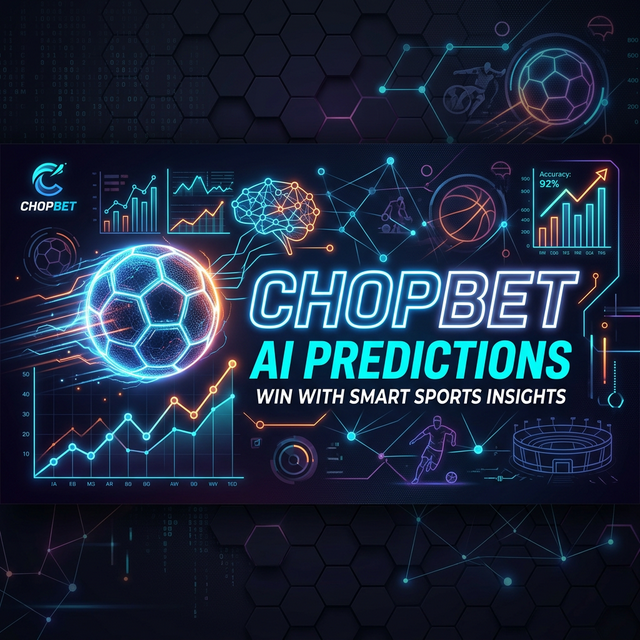
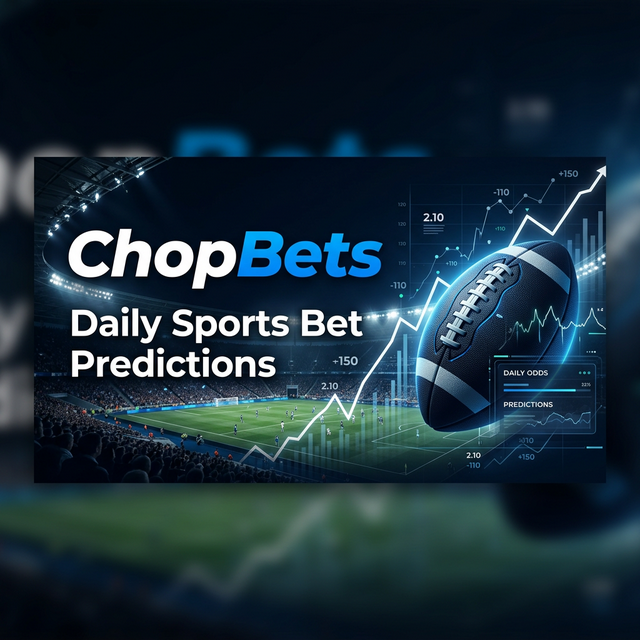
chore: update og-image to remove AI mentions and use ChopBets

diff --git a/frontend/app/layout.tsx b/frontend/app/layout.tsx
@@ -7,11 +7,11 @@ const inter = Inter({ subsets: ["latin"], variable: "--font-inter" });
 const outfit = Outfit({ subsets: ["latin"], variable: "--font-outfit" });
 
 export const metadata: Metadata = {
-  title: "ChopBet | AI Football Predictions",
-  description: "Professional-grade football predictions powered by Google Gemini with Search Grounding.",
+  title: "ChopBet | Sports Bet Predictions",
+  description: "Sports Bet predictions",
   openGraph: {
-    title: "ChopBet | Professional AI Football Predictions",
-    description: "Get daily, high-accuracy football predictions powered by Google Gemini AI. Track historical performance, view clear reasoning, and bet smarter.",
+    title: "ChopBet | Sports Bet Predictions",
+    description: "Sports Bet predictions",
     url: "https://chopbets.onrender.com",
     siteName: "ChopBet",
     images: [
@@ -19,7 +19,7 @@ export const metadata: Metadata = {
         url: "https://chopbets.onrender.com/og-image.png",
         width: 1200,
         height: 630,
-        alt: "ChopBet AI Predictions Preview",
+        alt: "ChopBet Sports Bet Predictions Preview",
       },
     ],
     locale: "en_US",
@@ -27,8 +27,8 @@ export const metadata: Metadata = {
   },
   twitter: {
     card: "summary_large_image",
-    title: "ChopBet | AI Football Predictions",
-    description: "Professional-grade football predictions powered by Google Gemini with Search Grounding.",
+    title: "ChopBet | Sports Bet Predictions",
+    description: "Sports Bet predictions",
     images: ["https://chopbets.onrender.com/og-image.png"],
   },
 };
